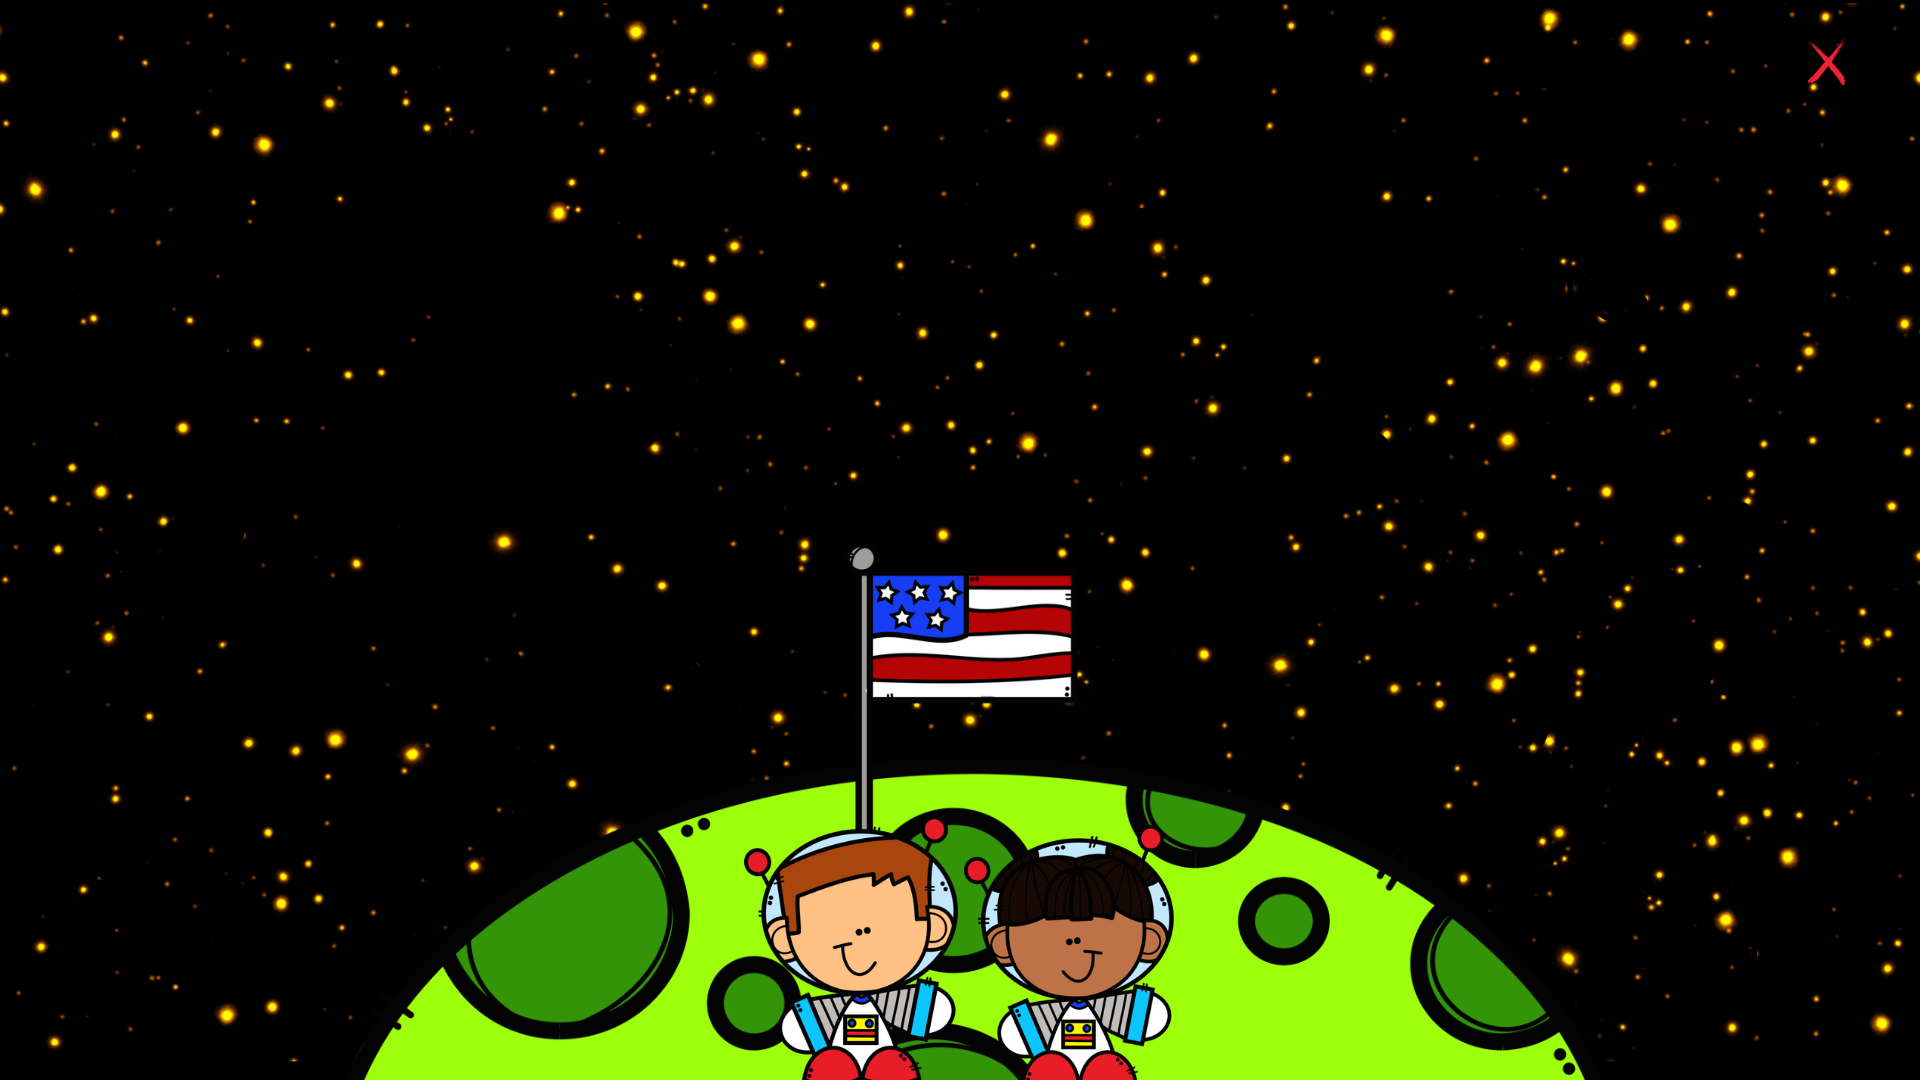
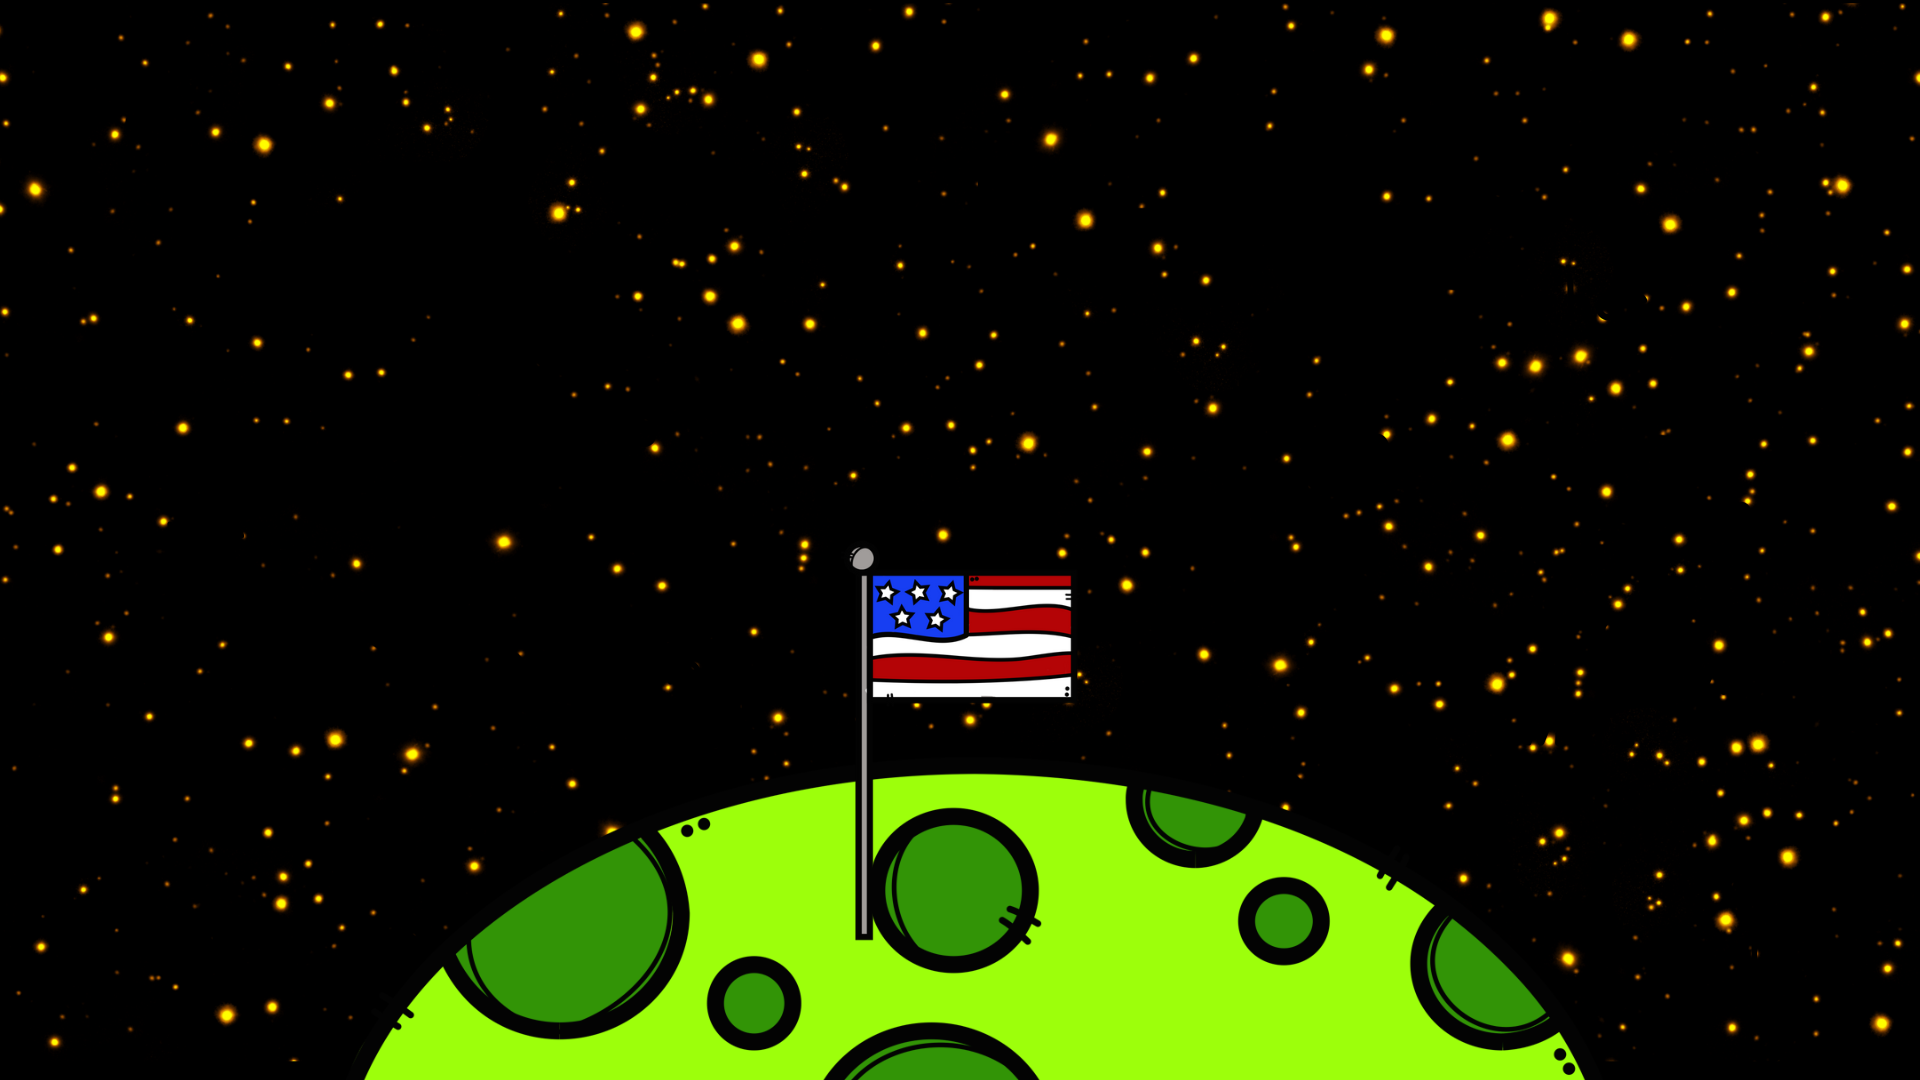
outer space completed

Changed region(s): [[0.375, 0.7639, 0.625, 1.0], [0.9375, 0.0306, 0.9688, 0.0917]]

diff --git a/src/views/OuterSpaceWordsView.js b/src/views/OuterSpaceWordsView.js
@@ -48,8 +48,6 @@ const OuterSpaceWordsView = ({ navigation }) => {
             flexDirection: 'row',
             justifyContent: 'space-between',
             alignItems: 'flex-end',
-            borderColor: 'green',
-            borderWidth: 2,
         },
         middleTop: {
             flex: 1,
@@ -58,8 +56,6 @@ const OuterSpaceWordsView = ({ navigation }) => {
             flexDirection: 'row',
             justifyContent: 'space-between',
             alignItems: 'flex-end',
-            borderColor: 'green',
-            borderWidth: 2,
         },
         middleBottom: {
             flex: 1,
@@ -68,8 +64,6 @@ const OuterSpaceWordsView = ({ navigation }) => {
             flexDirection: 'row',
             justifyContent: 'space-between',
             alignItems: 'flex-end',
-            borderColor: 'green',
-            borderWidth: 2,
         },
         bottom: {
             flex: 1,
@@ -78,121 +72,93 @@ const OuterSpaceWordsView = ({ navigation }) => {
             flexDirection: 'row',
             justifyContent: 'space-between',
             alignItems: 'flex-end',
-            borderColor: 'green',
-            borderWidth: 2,
         },
         twoOpacity: {
             height: isLandscape ? calculateImageDimensions(aspectRatio, '90%', '50%', '70%') : calculateImageDimensions(aspectRatio, '25%', '25%', '50%'),
             width: isLandscape ? calculateImageDimensions(aspectRatio, '11%', '15%', '12%') : calculateImageDimensions(aspectRatio, '17%', '17%', '16%'),
             marginBottom: isLandscape ? calculateImageDimensions(aspectRatio, '0%', '0%', '0%') : calculateImageDimensions(aspectRatio, '0%', '0%', '0%'),
-            borderColor: 'red',
-            borderWidth: 2,
         },
         herOpacity: {
             height: isLandscape ? calculateImageDimensions(aspectRatio, '90%', '80%', '70%') : calculateImageDimensions(aspectRatio, '35%', '35%', '50%'),
             width: isLandscape ? calculateImageDimensions(aspectRatio, '11%', '15%', '13%') : calculateImageDimensions(aspectRatio, '9%', '15%', '16%'),
             marginBottom: isLandscape ? calculateImageDimensions(aspectRatio, '1%', '2%', '3%') : calculateImageDimensions(aspectRatio, '5%', '20%', '10%'),
-            borderColor: 'red',
-            borderWidth: 2,
         },
         himOpacity: {
             height: isLandscape ? calculateImageDimensions(aspectRatio, '90%', '55%', '70%') : calculateImageDimensions(aspectRatio, '35%', '35%', '50%'),
             width: isLandscape ? calculateImageDimensions(aspectRatio, '11%', '15%', '13%') : calculateImageDimensions(aspectRatio, '9%', '17%', '17%'),
             marginBottom: isLandscape ? calculateImageDimensions(aspectRatio, '1%', '0%', '5%') : calculateImageDimensions(aspectRatio, '5%', '5%', '15%'),
-            borderColor: 'red',
-            borderWidth: 2,
         },
         soOpacity: {
             height: isLandscape ? calculateImageDimensions(aspectRatio, '90%', '50%', '70%') : calculateImageDimensions(aspectRatio, '35%', '30%', '50%'),
             width: isLandscape ? calculateImageDimensions(aspectRatio, '11%', '15%', '12%') : calculateImageDimensions(aspectRatio, '9%', '19%', '16%'),
             marginBottom: isLandscape ? calculateImageDimensions(aspectRatio, '1%', '8%', '3%') : calculateImageDimensions(aspectRatio, '5%', '20%', '10%'),
-            borderColor: 'red',
-            borderWidth: 2,
         },
         hasOpacity: {
             height: isLandscape ? calculateImageDimensions(aspectRatio, '90%', '65%', '70%') : calculateImageDimensions(aspectRatio, '35%', '35%', '50%'),
             width: isLandscape ? calculateImageDimensions(aspectRatio, '11%', '15%', '12%') : calculateImageDimensions(aspectRatio, '9%', '17%', '16%'),
             marginBottom: isLandscape ? calculateImageDimensions(aspectRatio, '0%', '2%', '0%') : calculateImageDimensions(aspectRatio, '5%', '10%', '0%'),
-            borderColor: 'red',
-            borderWidth: 2,
         },
         timeOpacity: {
             height: isLandscape ? calculateImageDimensions(aspectRatio, '90%', '50%', '70%') : calculateImageDimensions(aspectRatio, '35%', '35%', '50%'),
             width: isLandscape ? calculateImageDimensions(aspectRatio, '11%', '15%', '12%') : calculateImageDimensions(aspectRatio, '9%', '20%', '16%'),
             marginBottom: isLandscape ? calculateImageDimensions(aspectRatio, '1%', '0%', '0%') : calculateImageDimensions(aspectRatio, '5%', '0%', '0%'),
-            borderColor: 'red',
-            borderWidth: 2,
         },
         intoOpacity: {
             height: isLandscape ? calculateImageDimensions(aspectRatio, '90%', '60%', '70%') : calculateImageDimensions(aspectRatio, '35%', '35%', '50%'),
             width: isLandscape ? calculateImageDimensions(aspectRatio, '11%', '15%', '12%') : calculateImageDimensions(aspectRatio, '9%', '17%', '16%'),
             marginBottom: isLandscape ? calculateImageDimensions(aspectRatio, '1%', '5%', '5%') : calculateImageDimensions(aspectRatio, '5%', '15%', '10%'),
-            borderColor: 'red',
-            borderWidth: 2,
         },
         likeOpacity: {
             height: isLandscape ? calculateImageDimensions(aspectRatio, '90%', '55%', '70%') : calculateImageDimensions(aspectRatio, '35%', '35%', '50%'),
             width: isLandscape ? calculateImageDimensions(aspectRatio, '11%', '15%', '12%') : calculateImageDimensions(aspectRatio, '9%', '17%', '16%'),
             marginBottom: isLandscape ? calculateImageDimensions(aspectRatio, '1%', '0%', '5%') : calculateImageDimensions(aspectRatio, '5%', '5%', '10%'),
-            borderColor: 'red',
-            borderWidth: 2,
         },
         moreOpacity: {
             height: isLandscape ? calculateImageDimensions(aspectRatio, '90%', '50%', '70%') : calculateImageDimensions(aspectRatio, '35%', '25%', '50%'),
             width: isLandscape ? calculateImageDimensions(aspectRatio, '11%', '20%', '12%') : calculateImageDimensions(aspectRatio, '9%', '26%', '16%'),
             marginBottom: isLandscape ? calculateImageDimensions(aspectRatio, '0%', '3%', '0%') : calculateImageDimensions(aspectRatio, '5%', '20%', '0%'),
-            borderColor: 'red',
-            borderWidth: 2,
         },
         makeOpacity: {
             height: isLandscape ? calculateImageDimensions(aspectRatio, '90%', '50%', '70%') : calculateImageDimensions(aspectRatio, '40%', '35%', '50%'),
             width: isLandscape ? calculateImageDimensions(aspectRatio, '11%', '15%', '12%') : calculateImageDimensions(aspectRatio, '25%', '22%', '16%'),
             marginBottom: isLandscape ? calculateImageDimensions(aspectRatio, '0%', '9%', '0%') : calculateImageDimensions(aspectRatio, '20%', '5%', '0%'),
             marginLeft: isLandscape ? calculateImageDimensions(aspectRatio, '5%', '0%', '0%') : calculateImageDimensions(aspectRatio, '5%', '0%', '0%'),
-            borderColor: 'red',
-            borderWidth: 2,
         },
         someOpacity: {
             height: isLandscape ? calculateImageDimensions(aspectRatio, '90%', '45%', '70%') : calculateImageDimensions(aspectRatio, '40%', '25%', '50%'),
             width: isLandscape ? calculateImageDimensions(aspectRatio, '11%', '15%', '12%') : calculateImageDimensions(aspectRatio, '25%', '20%', '16%'),
             marginBottom: isLandscape ? calculateImageDimensions(aspectRatio, '1%', '0%', '5%') : calculateImageDimensions(aspectRatio, '10%', '0%', '10%'),
             marginRight: isLandscape ? calculateImageDimensions(aspectRatio, '15%', '0%', '10%') : calculateImageDimensions(aspectRatio, '15%', '0%', '30%'),
-            borderColor: 'red',
-            borderWidth: 2,
         },
         lookOpacity: {
             height: isLandscape ? calculateImageDimensions(aspectRatio, '90%', '65%', '70%') : calculateImageDimensions(aspectRatio, '40%', '35%', '50%'),
             width: isLandscape ? calculateImageDimensions(aspectRatio, '11%', '15%', '12%') : calculateImageDimensions(aspectRatio, '25%', '17%', '16%'),
             marginBottom: isLandscape ? calculateImageDimensions(aspectRatio, '0%', '5%', '5%') : calculateImageDimensions(aspectRatio, '20%', '15%', '10%'),
             marginLeft: isLandscape ? calculateImageDimensions(aspectRatio, '0%', '0%', '10%') : calculateImageDimensions(aspectRatio, '10%', '0%', '5%'),
-            borderColor: 'red',
-            borderWidth: 2,
         },
         writeOpacity: {
             height: isLandscape ? calculateImageDimensions(aspectRatio, '90%', '45%', '70%') : calculateImageDimensions(aspectRatio, '40%', '35%', '50%'),
             width: isLandscape ? calculateImageDimensions(aspectRatio, '11%', '15%', '12%') : calculateImageDimensions(aspectRatio, '25%', '20%', '16%'),
             marginBottom: isLandscape ? calculateImageDimensions(aspectRatio, '0%', '0%', '0%') : calculateImageDimensions(aspectRatio, '8%', '5%', '0%'),
             marginRight: isLandscape ? calculateImageDimensions(aspectRatio, '5%', '0%', '0%') : calculateImageDimensions(aspectRatio, '5%', '0%', '0%'),
-            borderColor: 'red',
-            borderWidth: 2,
         },
         theseOpacity: {
             height: isLandscape ? calculateImageDimensions(aspectRatio, '90%', '45%', '70%') : calculateImageDimensions(aspectRatio, '40%', '35%', '50%'),
             width: isLandscape ? calculateImageDimensions(aspectRatio, '11%', '15%', '12%') : calculateImageDimensions(aspectRatio, '25%', '22%', '16%'),
             marginBottom: isLandscape ? calculateImageDimensions(aspectRatio, '0%', '10%', '0%') : calculateImageDimensions(aspectRatio, '8%', '15%', '0%'),
-            borderColor: 'red',
-            borderWidth: 2,
         },
         wouldOpacity: {
             height: isLandscape ? calculateImageDimensions(aspectRatio, '90%', '45%', '70%') : calculateImageDimensions(aspectRatio, '40%', '35%', '50%'),
             width: isLandscape ? calculateImageDimensions(aspectRatio, '11%', '15%', '12%') : calculateImageDimensions(aspectRatio, '25%', '22%', '16%'),
             marginBottom: isLandscape ? calculateImageDimensions(aspectRatio, '0%', '1%', '0%') : calculateImageDimensions(aspectRatio, '15%', '0%', '0%'),
-            borderColor: 'red',
-            borderWidth: 2,
         },
         Image: {
             height: '100%',
             width: '100%',
+        },
+        astronautImage: {
+            height: '100%',
+            width: '20%',
         },
     });
 
@@ -283,9 +249,13 @@ const OuterSpaceWordsView = ({ navigation }) => {
                         <Image source={getImageSource('these', outerSpaceStatus['these'])} style={styles.Image} resizeMode='contain' />
                     </TouchableOpacity>
 
+                    <Image source={require('../assets/outerSpaceView/astronauts.png')} resizeMode="contain" style={styles.astronautImage}/>
+
                     <TouchableOpacity style={styles.wouldOpacity} onPress={() => navigation.navigate('Activities', { selectedWord: 'would', batch: 'Outer Space' })}>
                         <Image source={getImageSource('would', outerSpaceStatus['would'])} style={styles.Image} resizeMode='contain'/>
                     </TouchableOpacity>
+
+                    
 
                 </SafeAreaView>
             
